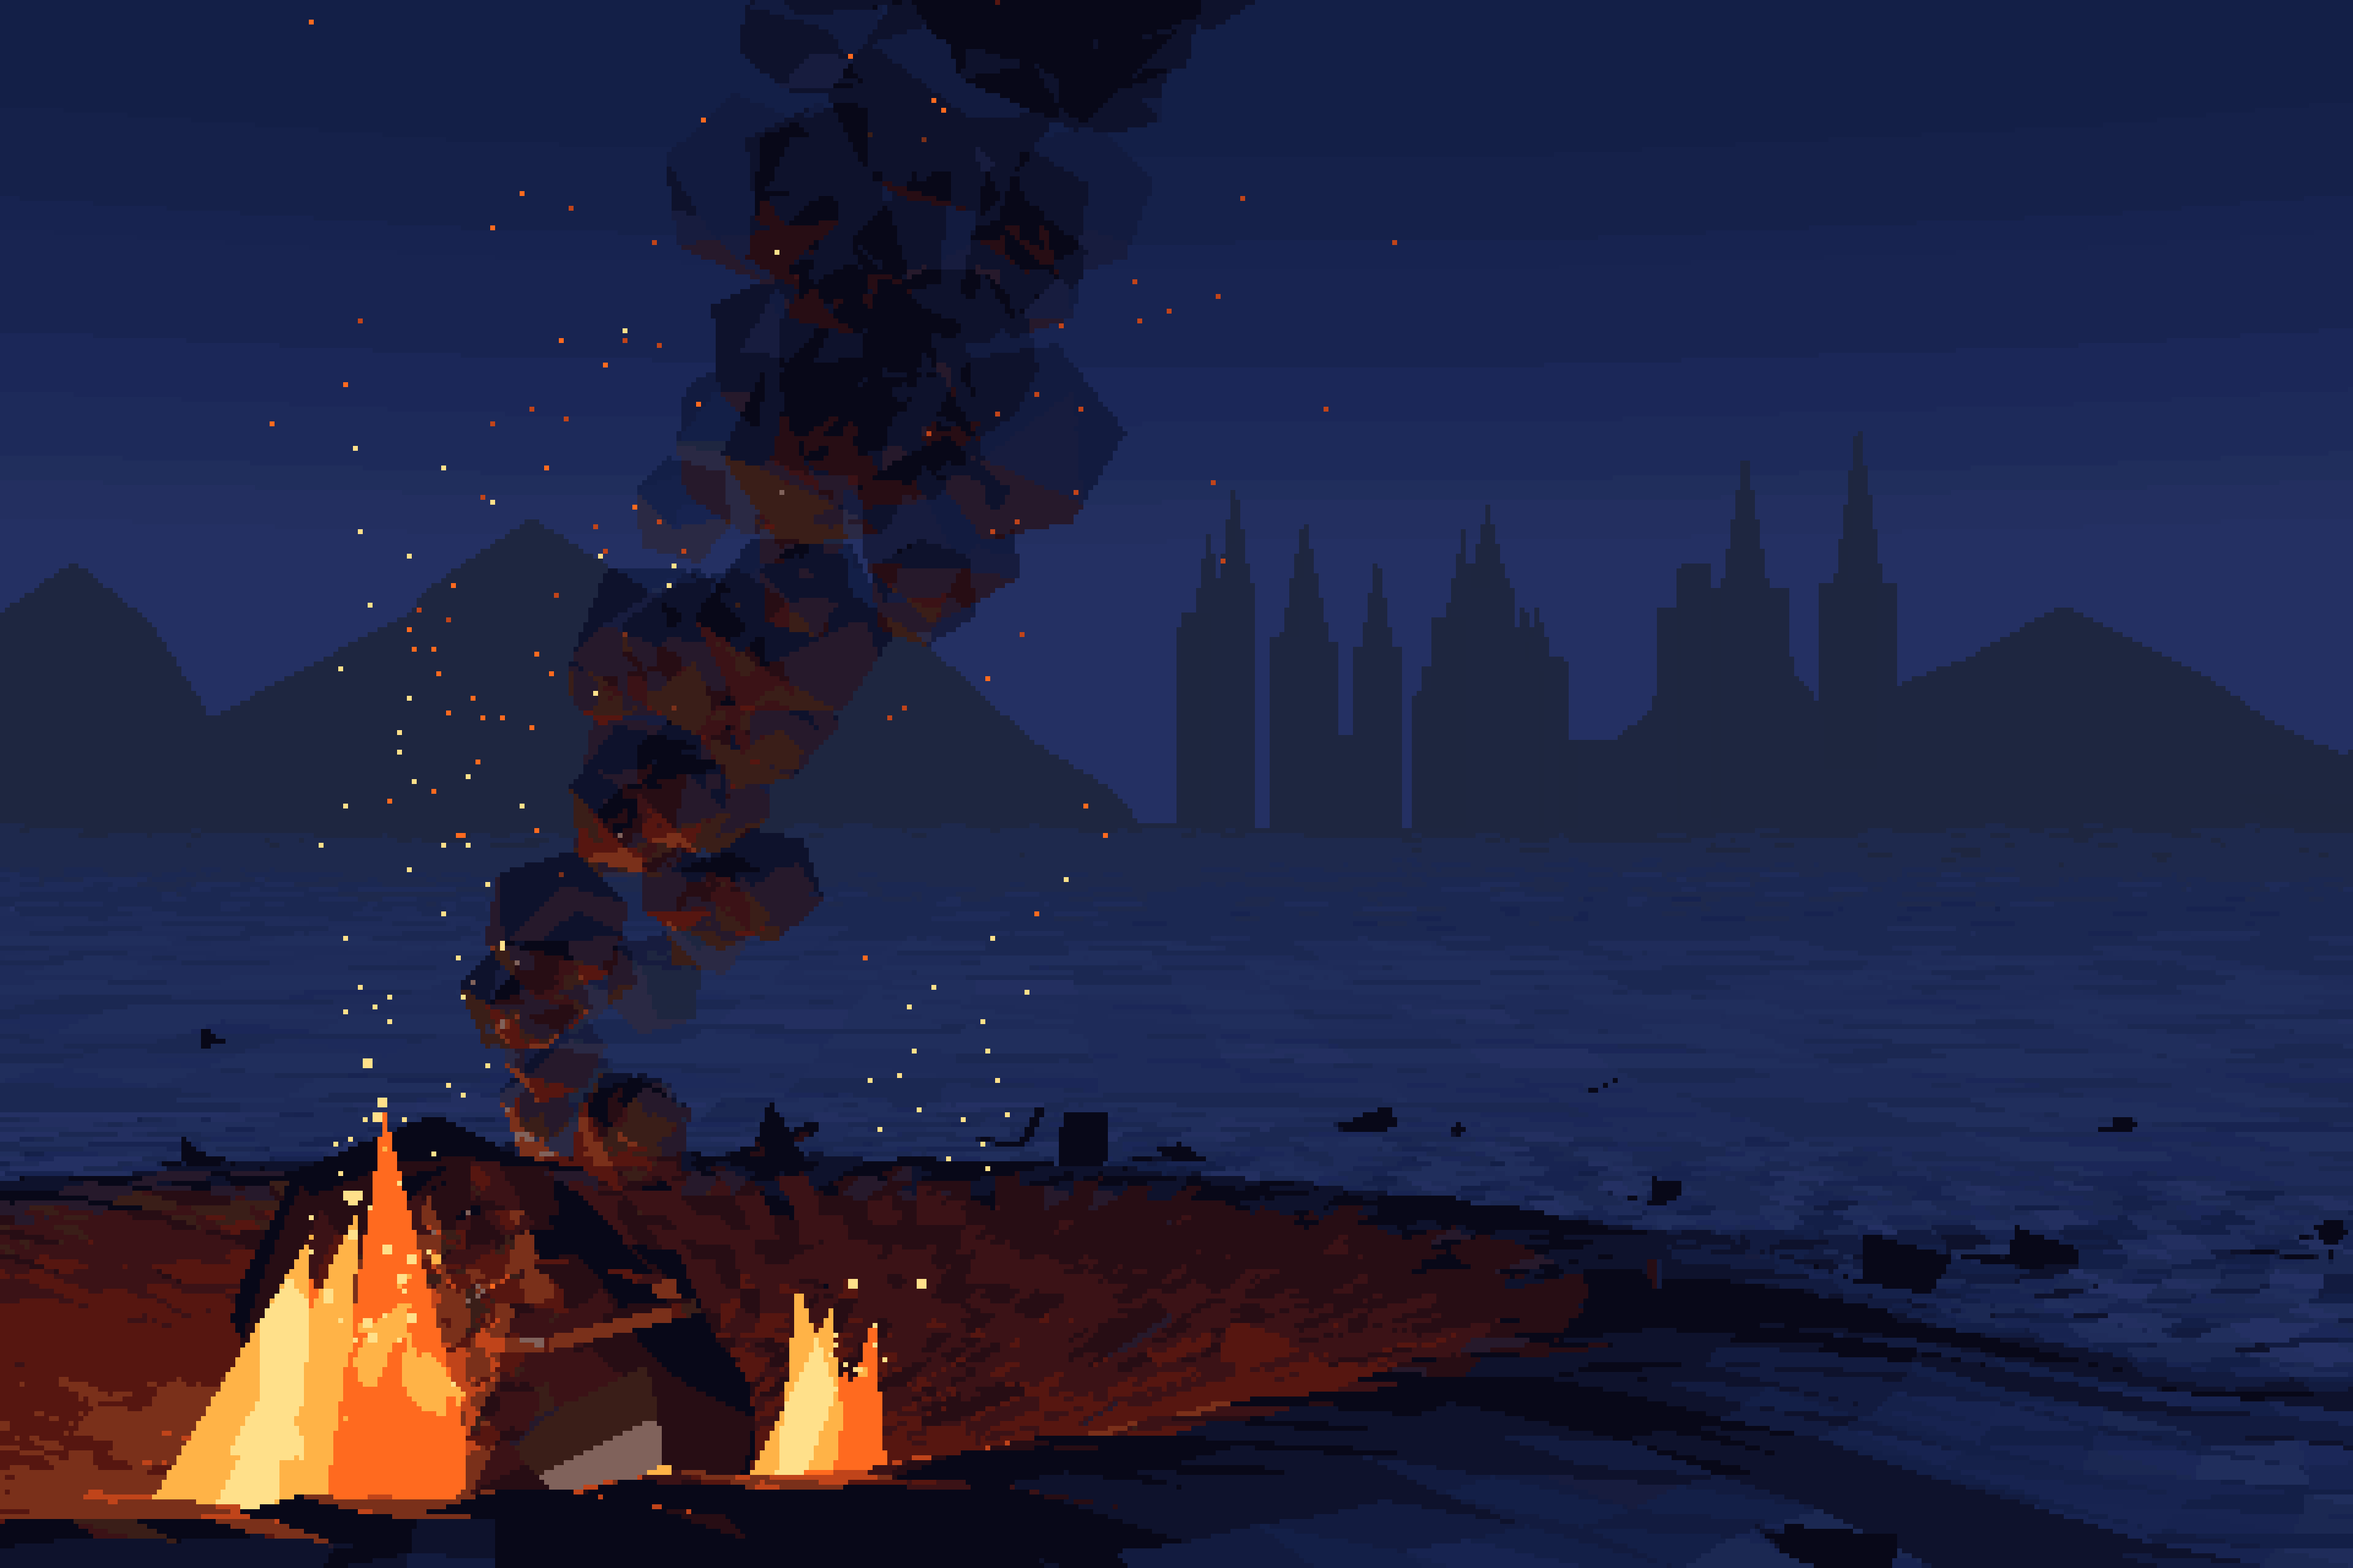
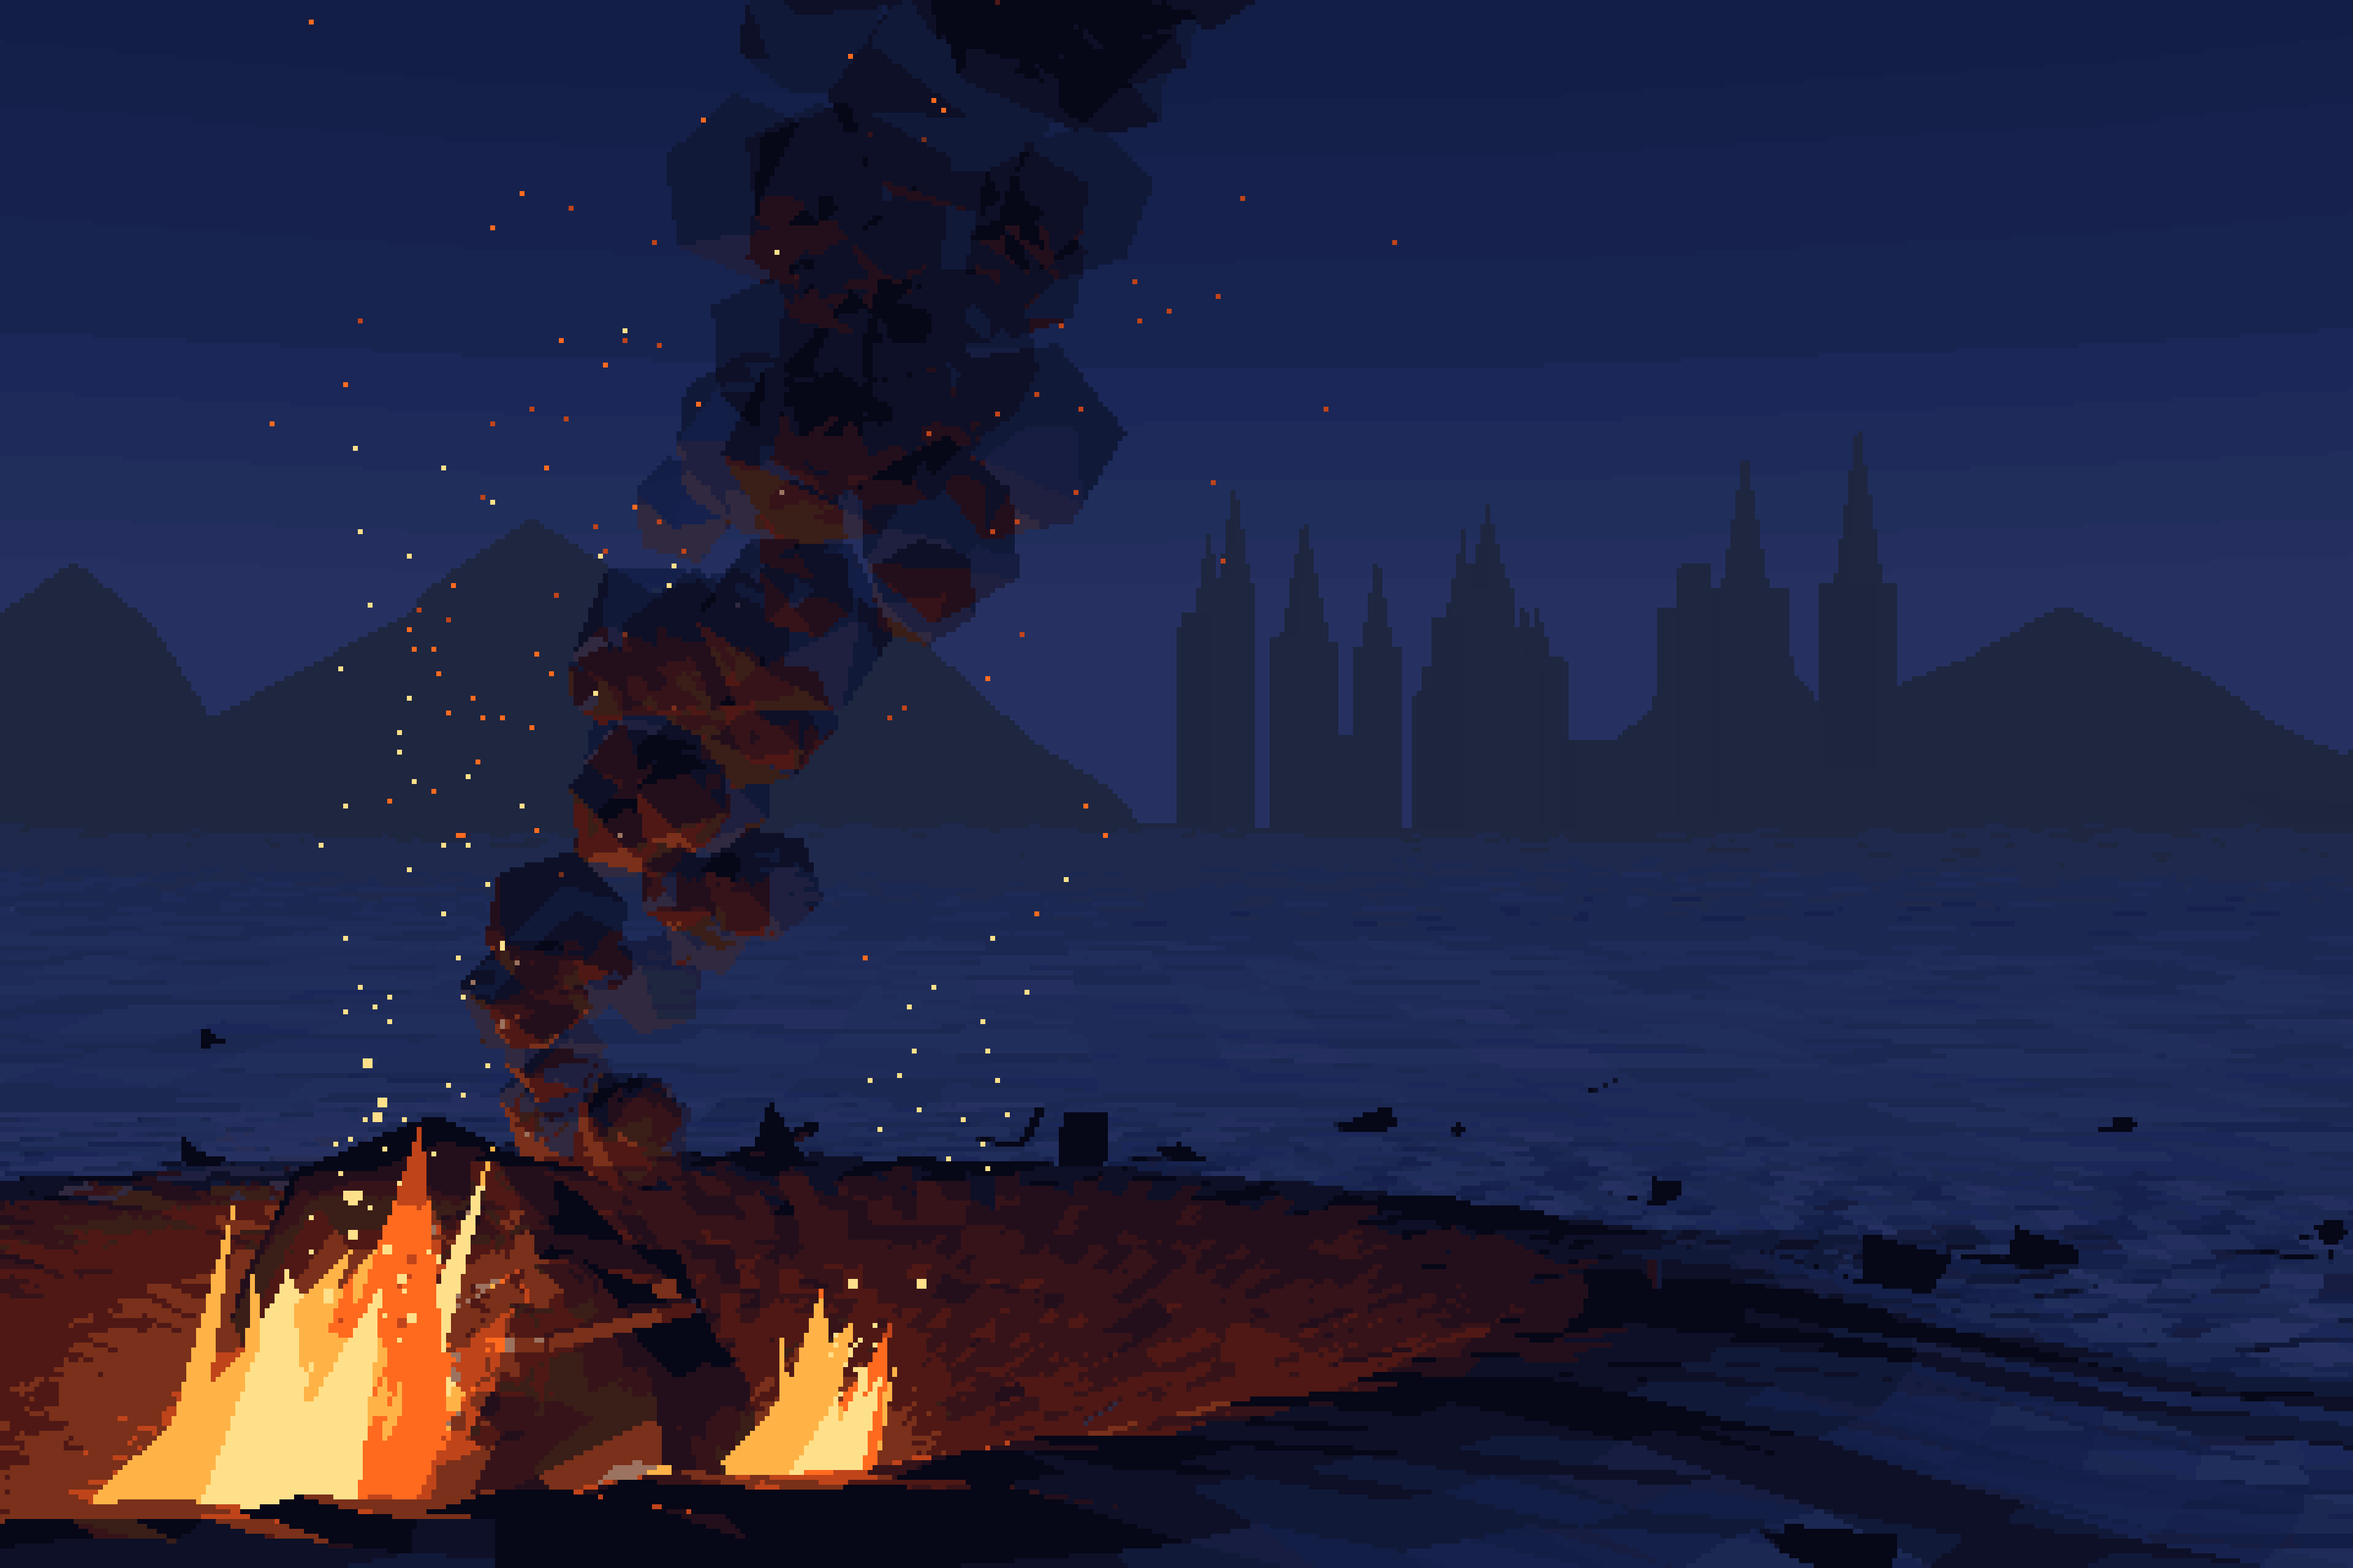
feat(steam): ストアの絵の炎を、赤橙・橙・黄白の層と細い舌で描き、根元に光をにじませる
2色の錐を4本重ねただけで、先の尖った橙の結晶のように見えていた。外側を赤橙、中を橙、芯を黄白にして内側ほど
細く短く重ね、細い舌を足して風に少し傾ける。外側の錐の形は構図の乱数のまま決め、足す形は別の乱数で作るので、
ほかの物の形は変わらない。

Claude-Session: https://claude.ai/code/session_01Vr2J9LitUQMqhB3nSQy9gN

diff --git a/docs/steam/background/crash_scene.html b/docs/steam/background/crash_scene.html
@@ -230,15 +230,53 @@ for (let i = 0; i < 46; i++) {
   scene.add(m);
 }
 
-// 炎: 低いポリゴンの錐を重ねる
+// 炎: 外側の赤橙、中の橙、芯の黄白の錐を内側ほど細く短く重ね、細い舌を足して風に少し傾ける。根元には光をにじませる。
+// 外側の錐は構図の乱数で形を決める。中の層と芯と舌と光は別の乱数で作り、構図の乱数の回数を変えない
+let fls = (seed ^ 0x6c8e9cf5) | 0;
+const F = (a, b) => { fls = fls + 0x6D2B79F5 | 0; let t = Math.imul(fls ^ fls >>> 15, 1 | fls); t = t + Math.imul(t ^ t >>> 7, 61 | t) ^ t; return a + (b - a) * (((t ^ t >>> 14) >>> 0) / 4294967296); };
+const flameMat = (color, order) => new THREE.MeshBasicMaterial({ color, transparent: true, opacity: 0.94, depthWrite: false });
+const glowTex = (() => {
+  const c = document.createElement('canvas');
+  c.width = c.height = 64;
+  const g = c.getContext('2d');
+  const gr = g.createRadialGradient(32, 32, 0, 32, 32, 32);
+  gr.addColorStop(0, 'rgba(255,150,60,0.35)');
+  gr.addColorStop(0.5, 'rgba(255,100,40,0.12)');
+  gr.addColorStop(1, 'rgba(255,90,30,0)');
+  g.fillStyle = gr;
+  g.fillRect(0, 0, 64, 64);
+  return new THREE.CanvasTexture(c);
+})();
 const flame = (x, y, z, s) => {
+  const wl = Math.hypot(V.wind[0], V.wind[1]) || 1;
+  const tiltX = (V.wind[1] / wl) * 0.2, tiltZ = -(V.wind[0] / wl) * 0.2;
+  const cone = (r, h, px, pz, rot, color, order) => {
+    const m = new THREE.Mesh(new THREE.ConeGeometry(r, h, 7), flameMat(color));
+    m.position.set(px, y + h / 2, pz);
+    m.rotation.set(rot[0] + tiltX, rot[1], rot[2] + tiltZ);
+    m.renderOrder = order;
+    scene.add(m);
+  };
   for (let k = 0; k < 4; k++) {
     const h = s * R(1.2, 2.2);
-    const m = new THREE.Mesh(new THREE.ConeGeometry(s * R(0.35, 0.55), h, 5), new THREE.MeshBasicMaterial({ color: k % 2 ? '#ffb347' : '#ff6a1f', transparent: true, opacity: 0.92 }));
-    m.position.set(x + R(-0.4, 0.4) * s, y + h / 2, z + R(-0.4, 0.4) * s);
-    m.rotation.set(R(-0.2, 0.2), R(0, 3), R(-0.2, 0.2));
-    scene.add(m);
+    const r = s * R(0.35, 0.55);
+    const px = x + R(-0.4, 0.4) * s, pz = z + R(-0.4, 0.4) * s;
+    cone(r, h, px, pz, [R(-0.2, 0.2), R(0, 3), R(-0.2, 0.2)], k % 2 ? '#ff6a1f' : '#c0441a', 1);
   }
+  for (let k = 0; k < 3; k++) {
+    cone(s * F(0.24, 0.34), s * F(0.9, 1.5), x + F(-0.25, 0.25) * s, z + F(-0.25, 0.25) * s, [F(-0.15, 0.15), F(0, 3), F(-0.15, 0.15)], '#ffb347', 2);
+  }
+  for (let k = 0; k < 2; k++) {
+    cone(s * F(0.14, 0.2), s * F(0.5, 0.8), x + F(-0.15, 0.15) * s, z + F(-0.15, 0.15) * s, [0, F(0, 3), 0], '#ffe08a', 3);
+  }
+  for (let k = 0; k < 4; k++) {
+    cone(s * F(0.08, 0.14), s * F(1.3, 2.0), x + F(-0.5, 0.5) * s, z + F(-0.5, 0.5) * s, [F(-0.35, 0.35), F(0, 3), F(-0.35, 0.35)], k % 2 ? '#ffb347' : '#ff6a1f', 1);
+  }
+  const glow = new THREE.Sprite(new THREE.SpriteMaterial({ map: glowTex, blending: THREE.AdditiveBlending, depthWrite: false, transparent: true }));
+  glow.position.set(x, y + s * 0.7, z);
+  glow.scale.setScalar(s * 3);
+  glow.renderOrder = 4;
+  scene.add(glow);
   const l = new THREE.PointLight('#ff7a30', 30 * s, 13, 1.6);
   l.position.set(x, y + s, z);
   scene.add(l);
